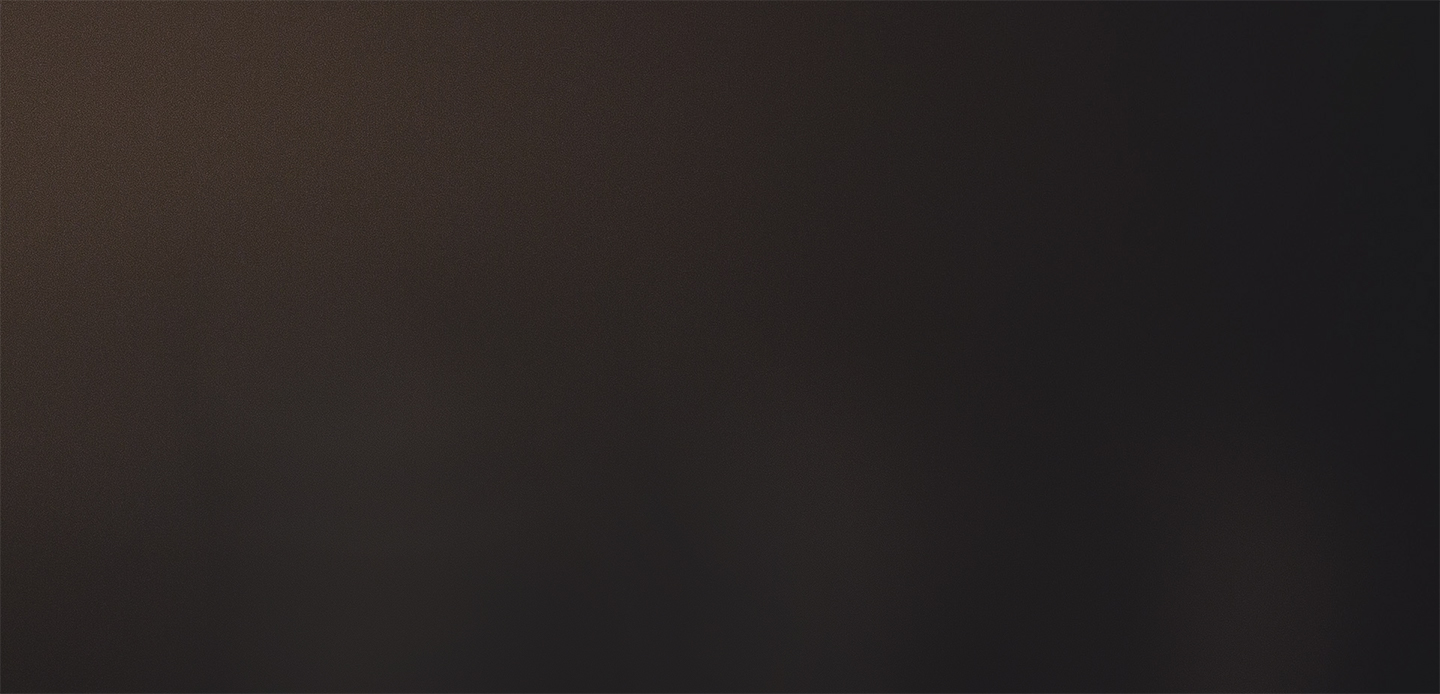
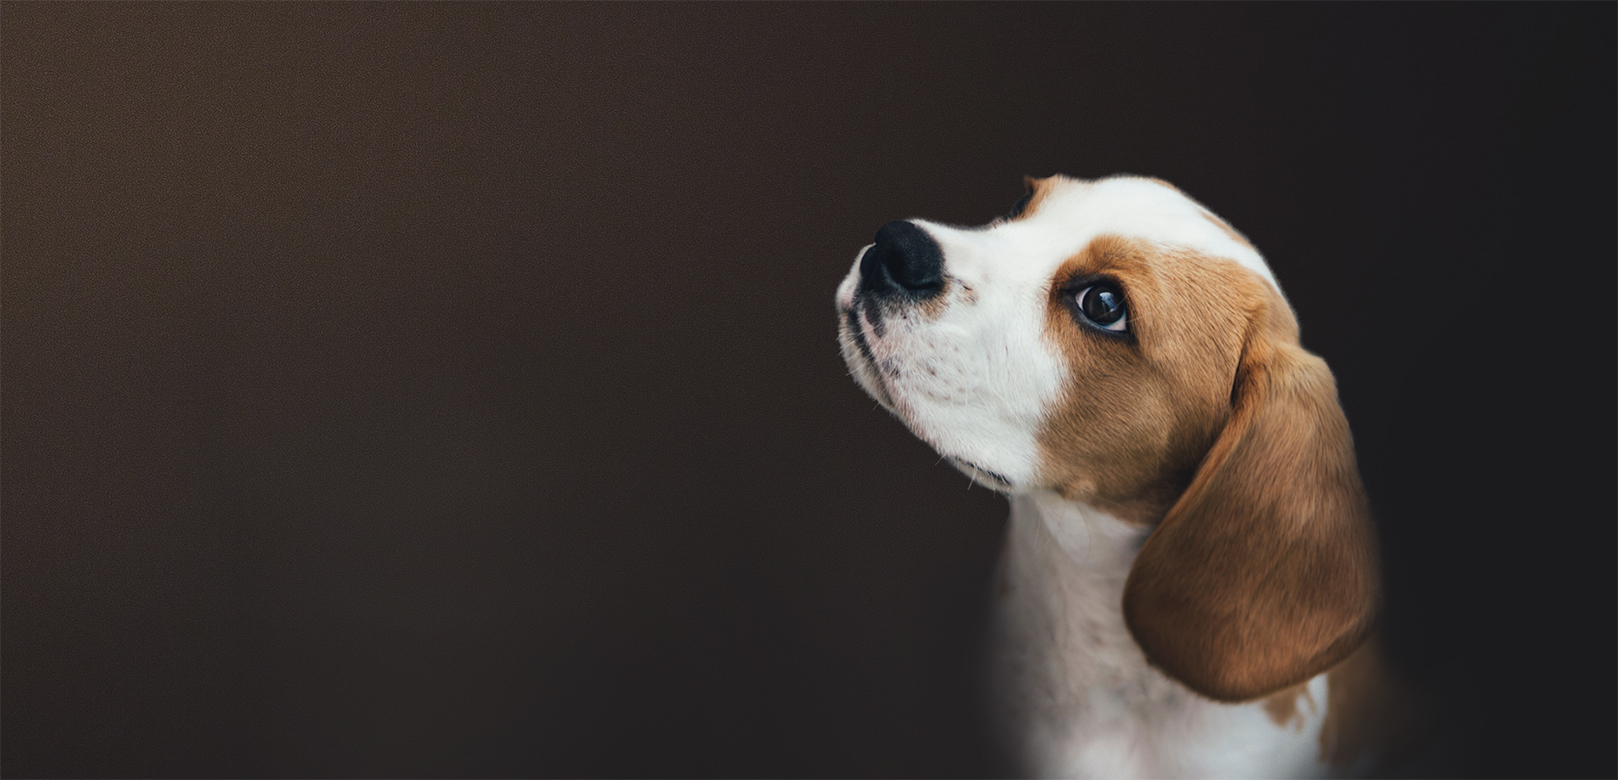
Header_main- надо разобраться с фоном

Changed region(s): [[0.5, 0.2118, 0.875, 1.0]]

diff --git a/index.html b/index.html
@@ -2,50 +2,63 @@
 <html lang="ru">
 
 <head>
-    <!-- Meta -->
-    <meta charset="utf-8">
-    <meta name="viewport" content="width=device-width, initial-scale=1, shrink-to-fit=no">
+  <!-- Meta -->
+  <meta charset="utf-8">
+  <meta name="viewport" content="width=device-width, initial-scale=1, shrink-to-fit=no">
 
-    <!-- CSS -->
-    <link rel="stylesheet" href="Css/reset.css">
-    <link rel="stylesheet" href="Css/bootstrap.min.css">
-    <link rel="stylesheet" href="Css/main.css">
+  <!-- CSS -->
+  <link rel="stylesheet" href="Css/reset.css">
+  <link rel="stylesheet" href="Css/bootstrap.min.css">
+  <link rel="stylesheet" href="Css/main.css">
 
-    <!-- Title -->
-    <title>Dogs</title>
+  <!-- Title -->
+  <title>Dogs</title>
 </head>
 
 <body>
 
-    <header>
-        <div class="container">
-            <nav class="navbar navbar-expand-md navbar-dark justify-content-between">
-                <a class="navbar-brand d-flex flex-column" href="#">
-                    <div class="navbar__logo-title">Cozy House</div>
-                    <div class="navbar__logo-subtitle">Shelter for pets in Boston </div>
-                </a>
-                <button class="navbar-toggler" type="button" data-toggle="collapse" data-target="#navbarNav" aria-controls="navbarNav" aria-expanded="false" aria-label="Toggle navigation">
-                  <span class="navbar-toggler-icon"></span>
-                </button>
-                <div class="collapse navbar-collapse" id="navbarNav">
-                  <ul class="navbar-nav ml-auto">
-                    <li class="nav-item">
-                      <a class="nav-link" href="#">About the shelter</a>
-                    </li>
-                    <li class="nav-item">
-                      <a class="nav-link" href="#">Our pets</a>
-                    </li>
-                    <li class="nav-item">
-                      <a class="nav-link" href="#">To help the shelter</a>
-                    </li>
-                    <li class="nav-item">
-                      <a class="nav-link" href="#">Contacts</a>
-                    </li>
-                  </ul>
-                </div>
-              </nav>
+  <header>
+    <div class="container">
+      <nav class="navbar navbar-expand-md navbar-dark justify-content-between">
+        <a class="navbar-brand d-flex flex-column" href="#">
+          <div class="navbar__logo-title">Cozy House</div>
+          <div class="navbar__logo-subtitle">Shelter for pets in Boston </div>
+        </a>
+        <button class="navbar-toggler" type="button" data-toggle="collapse" data-target="#navbarNav"
+          aria-controls="navbarNav" aria-expanded="false" aria-label="Toggle navigation">
+          <span class="navbar-toggler-icon"></span>
+        </button>
+        <div class="collapse navbar-collapse" id="navbarNav">
+          <ul class="navbar-nav ml-auto">
+            <li class="nav-item">
+              <a class="nav-link" href="#">About the shelter</a>
+            </li>
+            <li class="nav-item">
+              <a class="nav-link" href="#">Our pets</a>
+            </li>
+            <li class="nav-item">
+              <a class="nav-link" href="#">To help the shelter</a>
+            </li>
+            <li class="nav-item">
+              <a class="nav-link" href="#">Contacts</a>
+            </li>
+          </ul>
         </div>
-    </header>
+      </nav>
+
+      <div class="header__main">
+          <div class="row justify-content-between align-items-center">
+              <div class="col-md-5">
+                <h1>Not only people need a house</h1>
+                <p>Lorem ipsum dolor sit amet, consectetur adipiscing elit. Cras gravida 
+                  est in porttitor  porttitor. Duis sodales elementum ipsum, vehicula 
+                  condimentum erat fringilla et.</p>
+                <a href="#" class="btn">Make a friend</a>
+              </div>
+          </div>
+      </div>
+    </div>
+  </header>
 
 
 
@@ -53,10 +66,10 @@
 
 
 
-    <!-- Optional JavaScript -->
-    <!-- jQuery first, then Popper.js, then Bootstrap JS -->
-    <script src="JS/jquery-3.4.1.min.js"></script>
-    <script src="JS/bootstrap.min.js"></script>
+  <!-- Optional JavaScript -->
+  <!-- jQuery first, then Popper.js, then Bootstrap JS -->
+  <script src="JS/jquery-3.4.1.min.js"></script>
+  <script src="JS/bootstrap.min.js"></script>
 </body>
 
 </html>

diff --git a/Css/main.scss b/Css/main.scss
@@ -18,6 +18,8 @@ $$$
 ****************/
 
 $FontsGeo:'Georgia';
+$btn-back-color:rgb(241, 205, 179);
+$btn-text-color:rgb(41, 41, 41);
 
 /***************
 ****************
@@ -31,8 +33,27 @@ $FontsGeo:'Georgia';
 	background-position: center;
 }
 
+/***************
+****************
+Btn
+****************
+****************/
+
+.btn{
+	font-size: 1.1em;
+	font-family: $FontsGeo;
+	color: $btn-text-color;
+	background-color: $btn-back-color;
+	padding: 12px 48px;
+	border-radius:30px;
+}
 
 
+/***************
+****************
+Html
+****************
+****************/
 html {
 	font-size: 10px;
 }
@@ -54,15 +75,13 @@ HEDER
 ****************/
 header {
 	@include back-img ("../img/header/Header-Back.jpg");
-
+	
 	.navbar {
 		padding-top: 60px;
-
 		.navbar-brand {
 			&:hover {
 				text-decoration: none;
 			}
-
 			.navbar__logo-title {
 				display: inline-block;
 				font-family: $FontsGeo;
@@ -71,7 +90,6 @@ header {
 				width: 100%;
 				line-height: 1;
 			}
-
 			.navbar__logo-subtitle {
 				display: inline-block;
 				font-size: .9em;
@@ -81,9 +99,7 @@ header {
 				line-height: 1.8;
 			}
 		}
-
 		.nav-item {
-
 			.nav-link {
 				margin-right: 35px;
 				font-size: 15px;
@@ -108,18 +124,32 @@ header {
 					
 					transition: all 0.5s ease-in-out;
 				}
-				
-
 				&:hover {
 					text-decoration: none;
 					opacity: 1;
 				}
-
 				&:hover:before, 
 				&:focus:before {
 					width: 100%;
 				}
 			}
+		}
+	}
+	.header__main{
+		padding-top: 220px;
+		padding-bottom: 220px;
+		
+		h1{
+			font-family: $FontsGeo;
+			font-size: 44px;
+			color: rgb(255, 255, 255); 
+			max-width: 350px;
+		}
+		p{	
+			font-size: 15px;
+			font-family: "Arial";
+			color: rgb(205, 205, 205);
+			line-height: 1.6;
 		}
 	}
 }

diff --git a/Css/main.css b/Css/main.css
@@ -22,6 +22,25 @@ $$$
 @@@
 ****************
 ****************/
+/***************
+****************
+Btn
+****************
+****************/
+.btn {
+  font-size: 1.1em;
+  font-family: "Georgia";
+  color: #292929;
+  background-color: #f1cdb3;
+  padding: 12px 48px;
+  border-radius: 30px;
+}
+
+/***************
+****************
+Html
+****************
+****************/
 html {
   font-size: 10px;
 }
@@ -106,5 +125,24 @@ header .navbar .nav-item .nav-link:hover {
 
 header .navbar .nav-item .nav-link:hover:before, header .navbar .nav-item .nav-link:focus:before {
   width: 100%;
+}
+
+header .header__main {
+  padding-top: 220px;
+  padding-bottom: 220px;
+}
+
+header .header__main h1 {
+  font-family: "Georgia";
+  font-size: 44px;
+  color: white;
+  max-width: 350px;
+}
+
+header .header__main p {
+  font-size: 15px;
+  font-family: "Arial";
+  color: #cdcdcd;
+  line-height: 1.6;
 }
 /*# sourceMappingURL=main.css.map */
